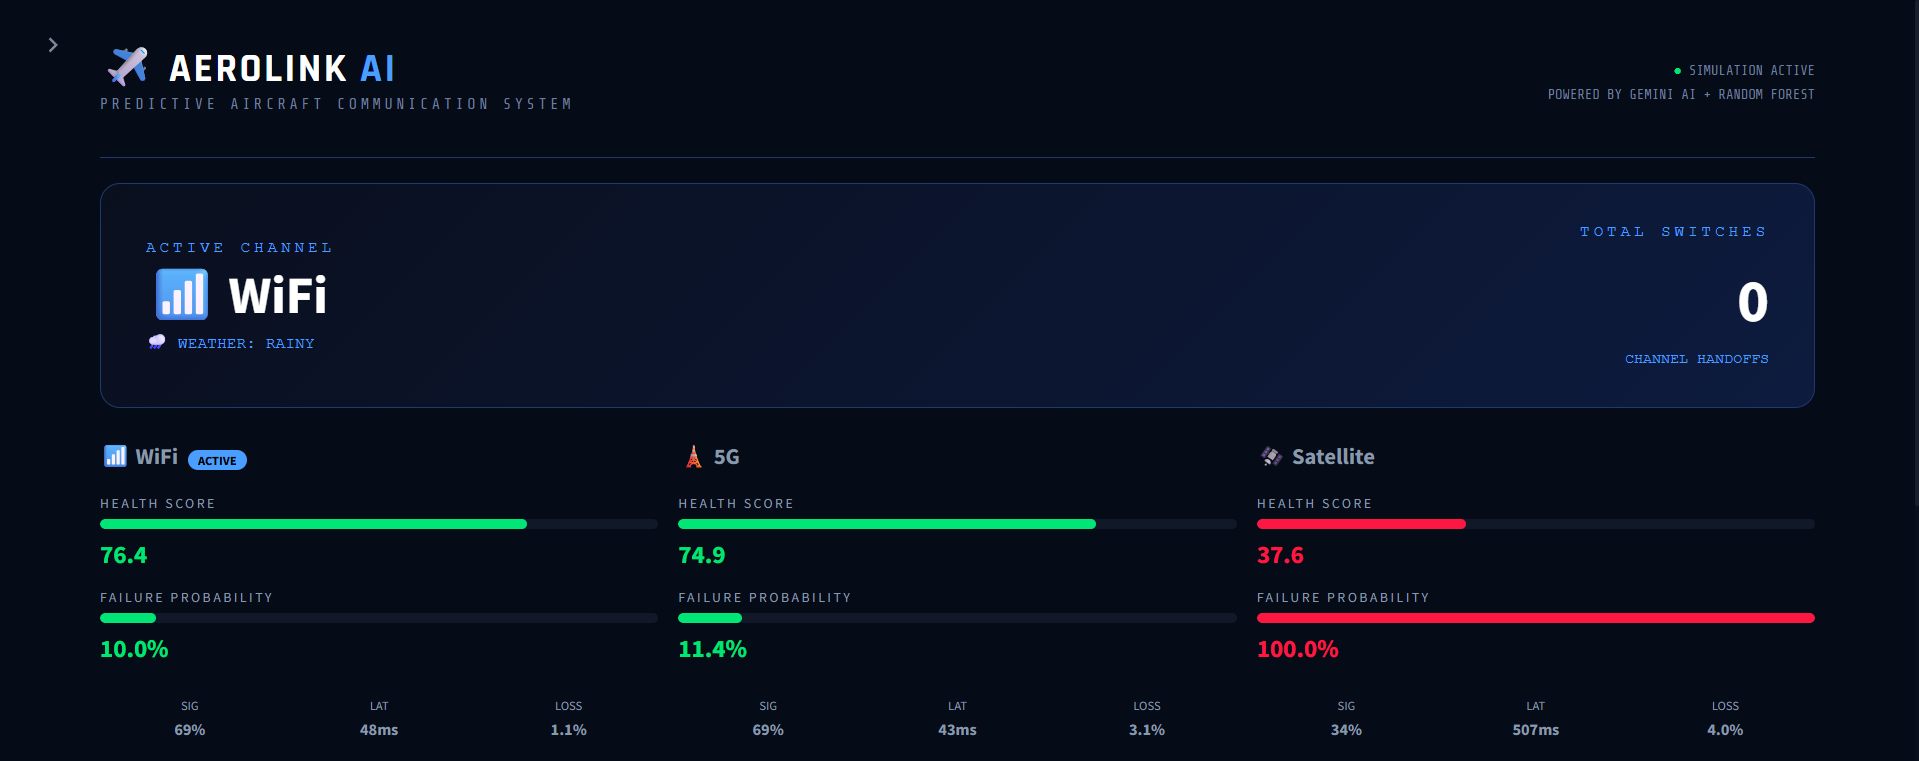
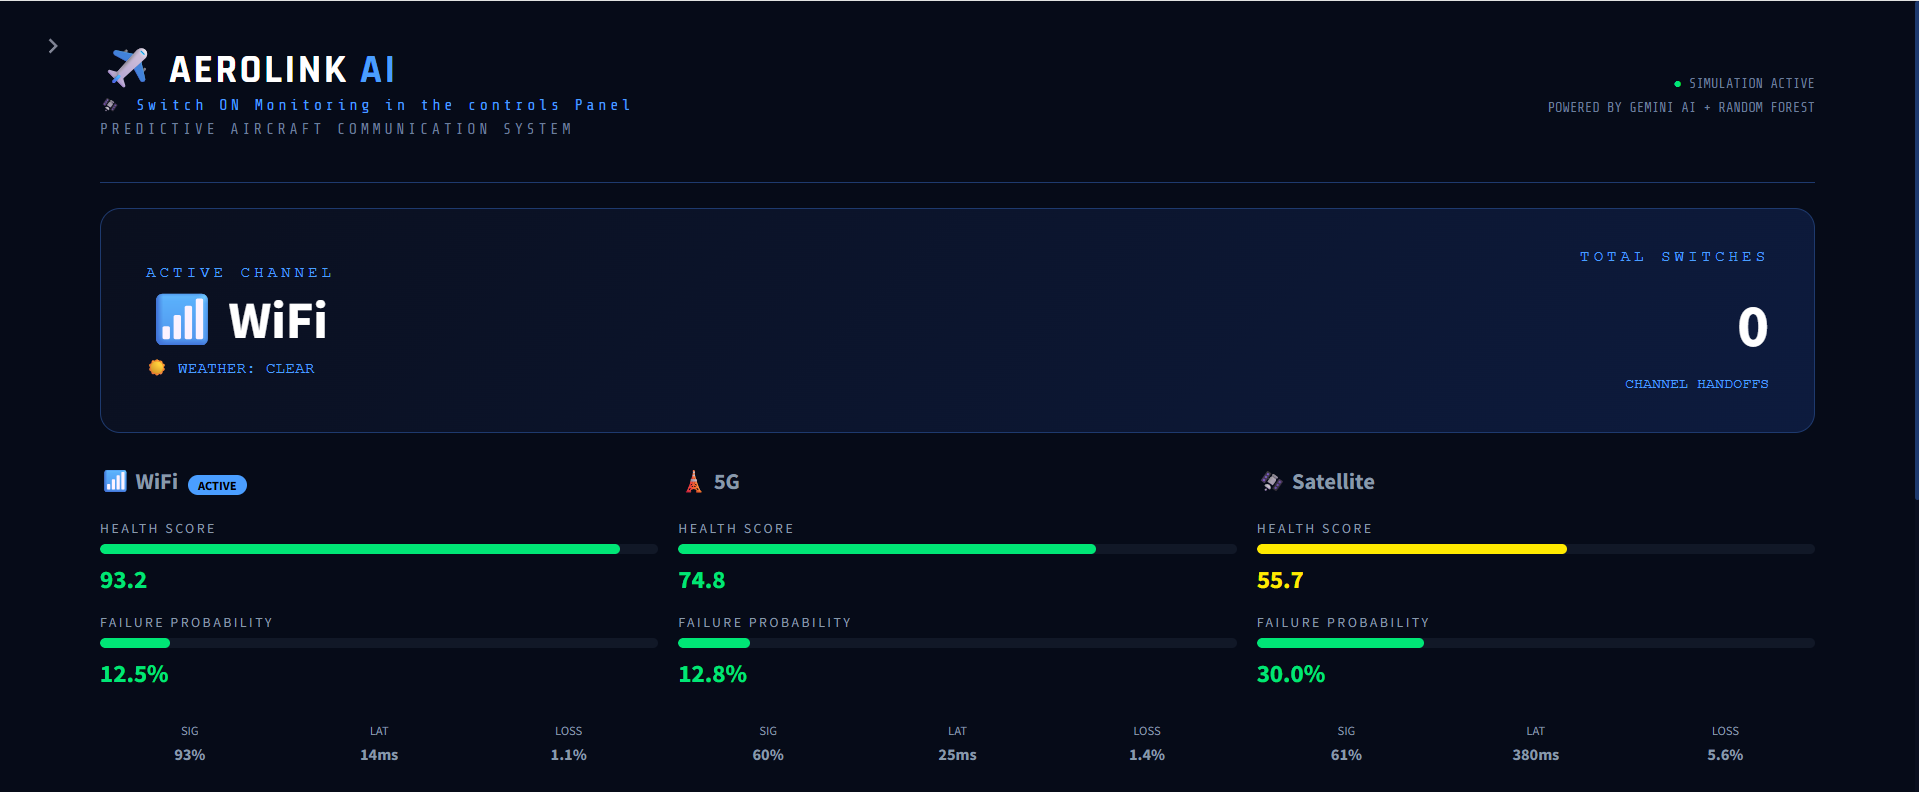
Fix requirements for Streamlit Cloud deployment

diff --git a/dashboard/app.py b/dashboard/app.py
@@ -122,6 +122,7 @@ def render_header(theme: str = "dark"):
             </div>
             <div style="font-family:'Share Tech Mono',monospace; font-size:12px;
                         color:{sub_color}; letter-spacing:3px; margin-top:2px;">
+                <span style="color:#4a9eff;">🛰 Switch ON Monitoring in the controls Panel</span><br>        
                 PREDICTIVE AIRCRAFT COMMUNICATION SYSTEM
             </div>
         </div>
@@ -173,6 +174,13 @@ def render_sidebar(theme: str = "dark"):
             Built for <b>Google Solution Challenge 2026</b>.
         </div>
         """, unsafe_allow_html=True)
+        if "running" not in st.session_state:
+            st.session_state.running = False
+
+        st.session_state.running = st.toggle(
+            "🛰 Switch ON Monitoring",
+            value=False
+        )
         st.markdown("Theme")
         is_light = st.toggle("Light Mode", value=False)
         st.session_state.theme = "light" if is_light else "dark"
@@ -211,7 +219,7 @@ def main():
     mgr    = st.session_state.manager
     logic  = st.session_state.switch_logic
 
-    # ── One tick of simulation ─────────────────────────────────────────────
+    # Always run one tick so UI has data to display
     readings = sim.tick()
     probs    = pred.predict_all(readings)
     logic.evaluate(readings, probs)
@@ -219,10 +227,7 @@ def main():
     st.session_state.tick += 1
     tick = st.session_state.tick
 
-    # Push to chart history
     update_history(readings, tick)
-
-    # Get full state snapshot
     snapshot = mgr.get_snapshot()
 
     # ── Render UI ──────────────────────────────────────────────────────────
@@ -239,14 +244,13 @@ def main():
 
     st.markdown("<div style='height:16px'></div>", unsafe_allow_html=True)
 
-    # Event log takes full width
+    hr_color = "#7ab0d8" if theme == "light" else "#1e3a6e"
     st.markdown(f"""
-    <hr style="border:none; border-top:1px solid #1e3a6e; margin:8px 0 20px 0;">
+    <hr style="border:none; border-top:1px solid {hr_color}; margin:8px 0 20px 0;">
     """, unsafe_allow_html=True)
 
     render_event_log(snapshot["event_log"])
 
-    # ── Footer ─────────────────────────────────────────────────────────────
     st.markdown(f"""
     <div style="text-align:center; font-family:'Share Tech Mono',monospace;
                 font-size:11px; color:#2a4060; margin-top:24px;">
@@ -255,9 +259,10 @@ def main():
     </div>
     """, unsafe_allow_html=True)
 
-    # ── Auto-refresh ───────────────────────────────────────────────────────
-    time.sleep(speed)
-    st.rerun()
+    # Only auto-refresh if monitoring toggle is ON
+    if st.session_state.get("running"):
+        time.sleep(speed)
+        st.rerun()
 
 
 if __name__ == "__main__":

diff --git a/README.md b/README.md
@@ -78,7 +78,7 @@ Then open `http://localhost:8501` in your browser.
 
 ## Basic Usage
 
-Once the dashboard is running, the simulation starts automatically. You will see three channel cards at the top showing the health score and failure probability for WiFi, 5G, and Satellite in real time.
+Once the dashboard is running, the simulation is paused by default. Use the sidebar controls and click **" Switch ON Monitoring"** to start the live simulation. You will see three channel cards at the top showing the health score and failure probability for WiFi, 5G, and Satellite in real time.
 
 The active channel is highlighted with a blue border and an ACTIVE badge. As signals degrade, the health score drops and the failure probability bar turns yellow then red. When the AI predicts imminent failure with more than 70% confidence, the system switches to the next healthiest channel.
 
@@ -93,7 +93,7 @@ You can adjust the simulation speed using the slider in the sidebar. The weather
 **System monitoring — normal state**
 ![Normal state](screenshots/screenshot1.png)
 
-**Channel switch detected**
+**Active monitoring**
 ![Switch event](screenshots/screenshot2.png)
 
 **System event log with Gemini explanations**
